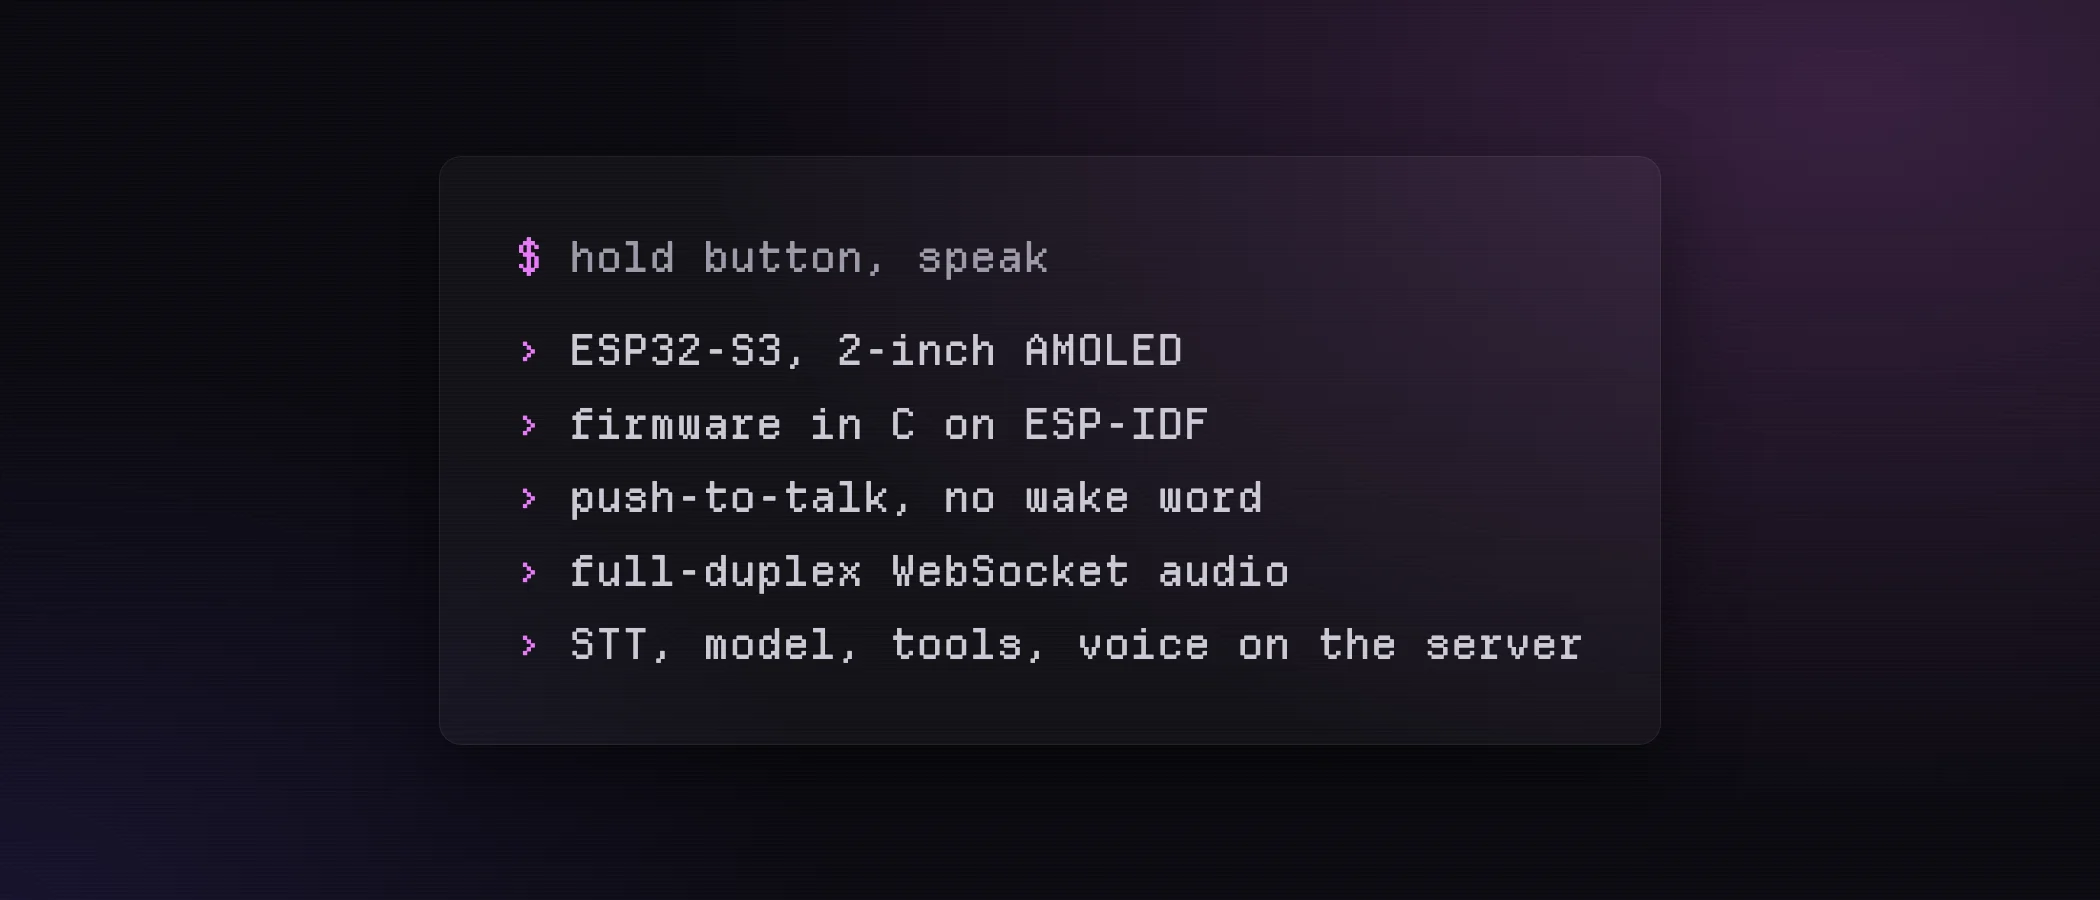
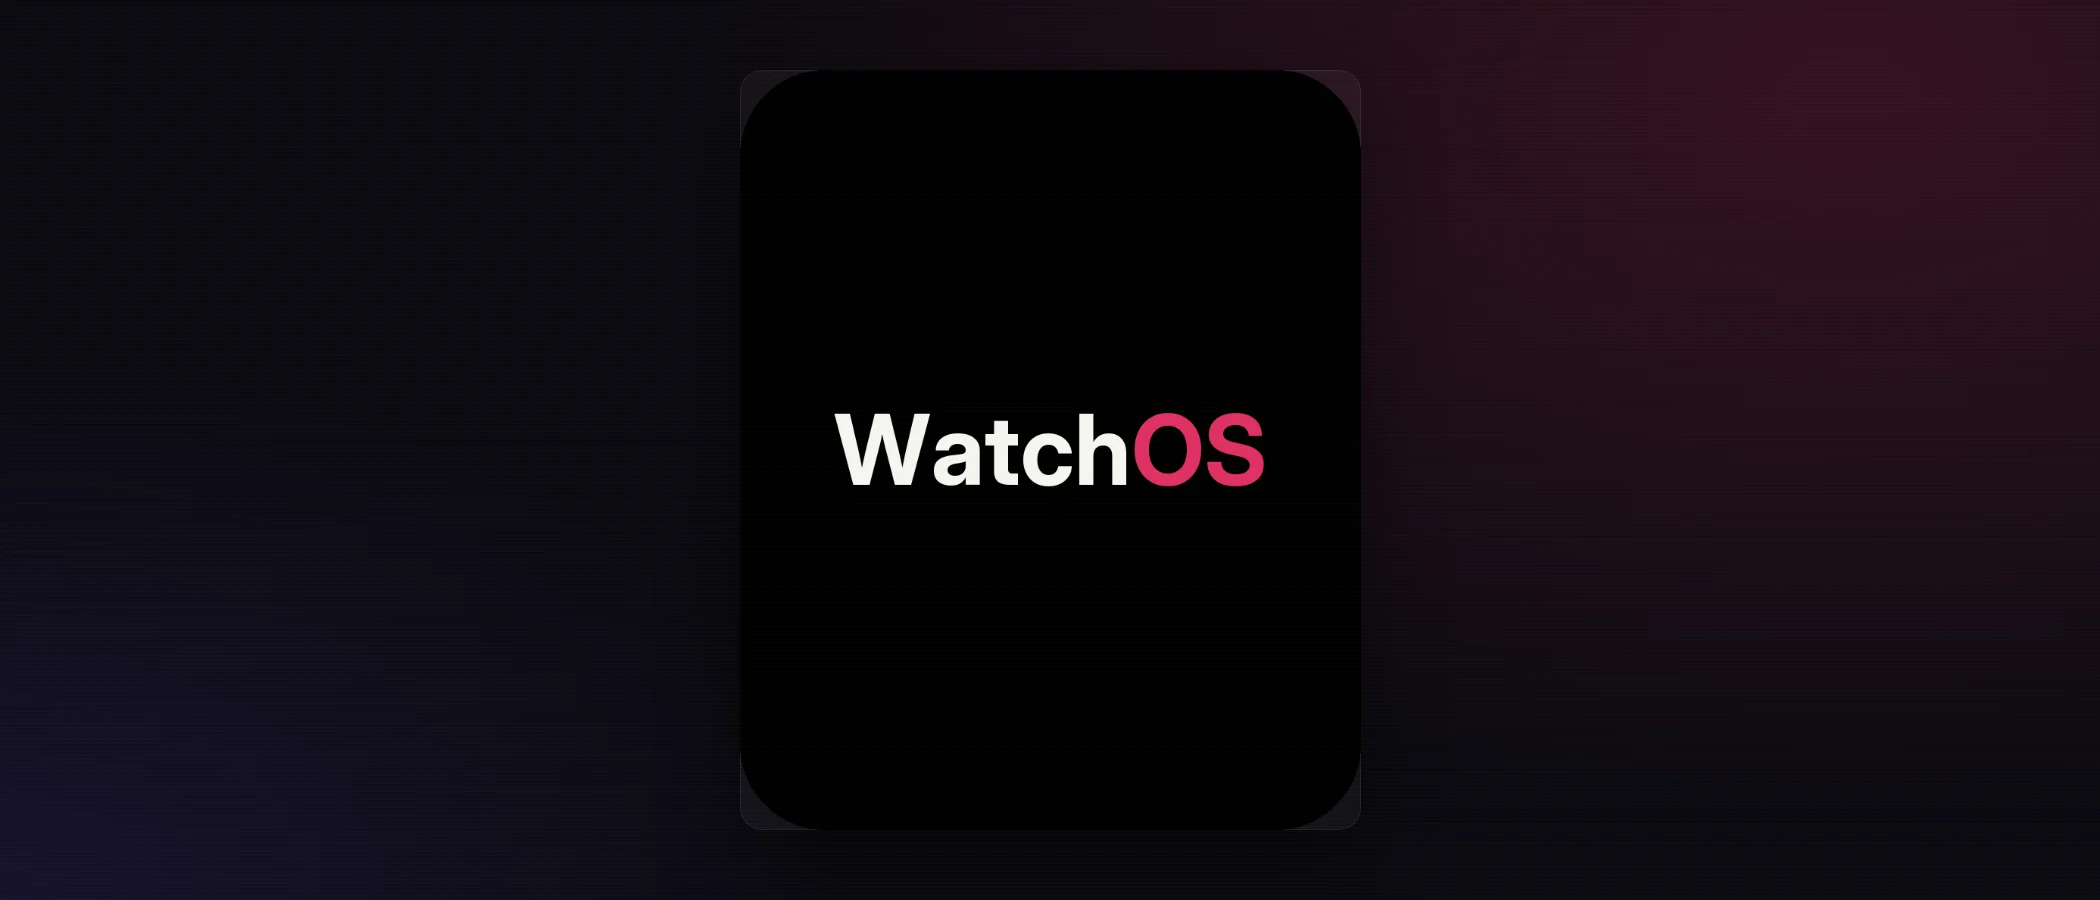
feat(projects): retell Watch OS on Brookesia, in the watch's own style
The firmware restarted on ESP-Brookesia 0.8 with Nexus as the agent,
so the entry is in progress again and the C version moves to
`previously`. Cover and logo take the watch's accent and its boot screen.

Changed region(s): [[0.2476, 0.0, 1.0, 0.84], [0.2476, 0.6844, 0.3095, 0.7467], [0.9595, 0.28, 0.9905, 0.3111]]

diff --git a/src/content/projects/watch-os/it.md b/src/content/projects/watch-os/it.md
@@ -1,17 +1,30 @@
 ---
 slug: "watch-os"
 title: "Watch OS"
-excerpt: "Un firmware mio per uno smartwatch ESP32-S3: premi un tasto, parli, e risponde un agente che vive su un server."
+excerpt: "Un firmware mio per uno smartwatch ESP32-S3: premi un tasto, parli, e risponde l'agente di Nexus."
 tags:
-  - "C"
+  - "C++"
   - "ESP-IDF"
+  - "ESP-Brookesia"
   - "ESP32"
   - "Embedded"
   - "Voice"
+previously:
+  - name: "Watch OS in C"
+    year: 2026
+    note: "La prima versione, in C su ESP-IDF: launcher, Wi-Fi, batteria, ora e impostazioni. Si era fermata prima dell'app vocale."
 ---
 
-Uno smartwatch con un ESP32-S3 e uno schermo AMOLED da 2 pollici, con un firmware scritto in C su ESP-IDF. L'idea è un orologio che fa solo da microfono e altoparlante per un agente: trascrizione, modello, tool e voce stanno tutti sul server.
+Uno smartwatch Waveshare con un ESP32-S3 e uno schermo AMOLED da 2 pollici. L'idea è un orologio che fa solo da interfaccia, microfono e altoparlante: trascrizione, modello, tool e voce stanno su [Nexus](/it/progetti/nexus), e il watch è un suo canale vocale.
 
-Push-to-talk invece di una parola d'attivazione: meno batteria e nessuna attivazione per sbaglio. L'audio va e torna su un WebSocket full-duplex, così la risposta può arrivare mentre il modello la sta ancora generando.
+Push-to-talk invece di una parola d'attivazione: meno batteria e nessuna attivazione per sbaglio. L'audio va e torna in Opus su un WebSocket, così la risposta può arrivare mentre il modello la sta ancora generando.
 
-Il firmware ha il launcher, il Wi-Fi, la gestione della batteria, l'ora sincronizzata e le impostazioni. Si è fermato prima del pezzo che conta, l'app vocale: i componenti per l'audio e il WebSocket ci sono, manca il collegamento.
+## Come è fatto
+
+- Il firmware è ripartito da zero su ESP-Brookesia 0.8 di Espressif, che porta launcher multi-app, impostazioni, Wi-Fi e audio. La definizione della board l'ho scritta io: Brookesia non include questo modello.
+- La UI ha un design system suo: testo su nero, perché sull'AMOLED il pixel nero è spento, linee sottili e un solo colore d'accento. Inter con le lettere accentate, densità 2,0 come gli smartwatch in commercio, e una schermata d'avvio col nome. Si cambia sovrascrivendo i file JSON di Brookesia, senza toccare il suo codice.
+- Gli strumenti di sviluppo passano dalla USB: screenshot dei pixel mandati al pannello, tocchi simulati, carico della CPU e latenza del touch. Servono al coding agent per vedere e provare la UI senza che io tocchi l'orologio.
+
+## A che punto è
+
+La UI è pronta e va provata al polso. Poi viene l'energia (sospensione e risveglio dal tasto), poi la voce end-to-end con Nexus, poi gli aggiornamenti via Wi-Fi.

diff --git a/src/content/projects/watch-os/en.md b/src/content/projects/watch-os/en.md
@@ -1,17 +1,30 @@
 ---
 slug: "watch-os"
 title: "Watch OS"
-excerpt: "My own firmware for an ESP32-S3 smartwatch: press a button, speak, and an agent living on a server answers."
+excerpt: "My own firmware for an ESP32-S3 smartwatch: press a button, speak, and the Nexus agent answers."
 tags:
-  - "C"
+  - "C++"
   - "ESP-IDF"
+  - "ESP-Brookesia"
   - "ESP32"
   - "Embedded"
   - "Voice"
+previously:
+  - name: "Watch OS in C"
+    year: 2026
+    note: "The first version, in C on ESP-IDF: launcher, Wi-Fi, battery, time and settings. It had stopped before the voice app."
 ---
 
-A smartwatch with an ESP32-S3 and a 2-inch AMOLED screen, with firmware written in C on ESP-IDF. The idea is a watch that only acts as microphone and speaker for an agent: transcription, model, tools and voice all live on the server.
+A Waveshare smartwatch with an ESP32-S3 and a 2-inch AMOLED screen. The idea is a watch that only acts as interface, microphone and speaker: transcription, model, tools and voice live on [Nexus](/en/projects/nexus), and the watch is one of its voice channels.
 
-Push-to-talk instead of a wake word: less battery and no accidental triggers. Audio goes back and forth over a full-duplex WebSocket, so the answer can arrive while the model is still generating it.
+Push-to-talk instead of a wake word: less battery and no accidental triggers. Audio goes back and forth in Opus over a WebSocket, so the answer can arrive while the model is still generating it.
 
-The firmware has the launcher, Wi-Fi, power management, synced time and settings. It stopped before the part that matters, the voice app: the audio and WebSocket components are in place, the wiring is missing.
+## How it is built
+
+- The firmware restarted from scratch on Espressif's ESP-Brookesia 0.8, which brings a multi-app launcher, settings, Wi-Fi and audio. I wrote the board definition myself: Brookesia does not include this model.
+- The UI has its own design system: text on black, since a black pixel on AMOLED is off, thin lines and a single accent color. Inter with accented letters, a density of 2.0 like commercial smartwatches, and a boot screen with the name. It changes by overriding Brookesia's JSON files, without touching its code.
+- The development tools go over USB: screenshots of the pixels sent to the panel, simulated taps, CPU load and touch latency. They let the coding agent see and try the UI without me touching the watch.
+
+## Where it stands
+
+The UI is done and needs a try on the wrist. Next comes power (sleep and wake from the button), then voice end to end with Nexus, then updates over Wi-Fi.
